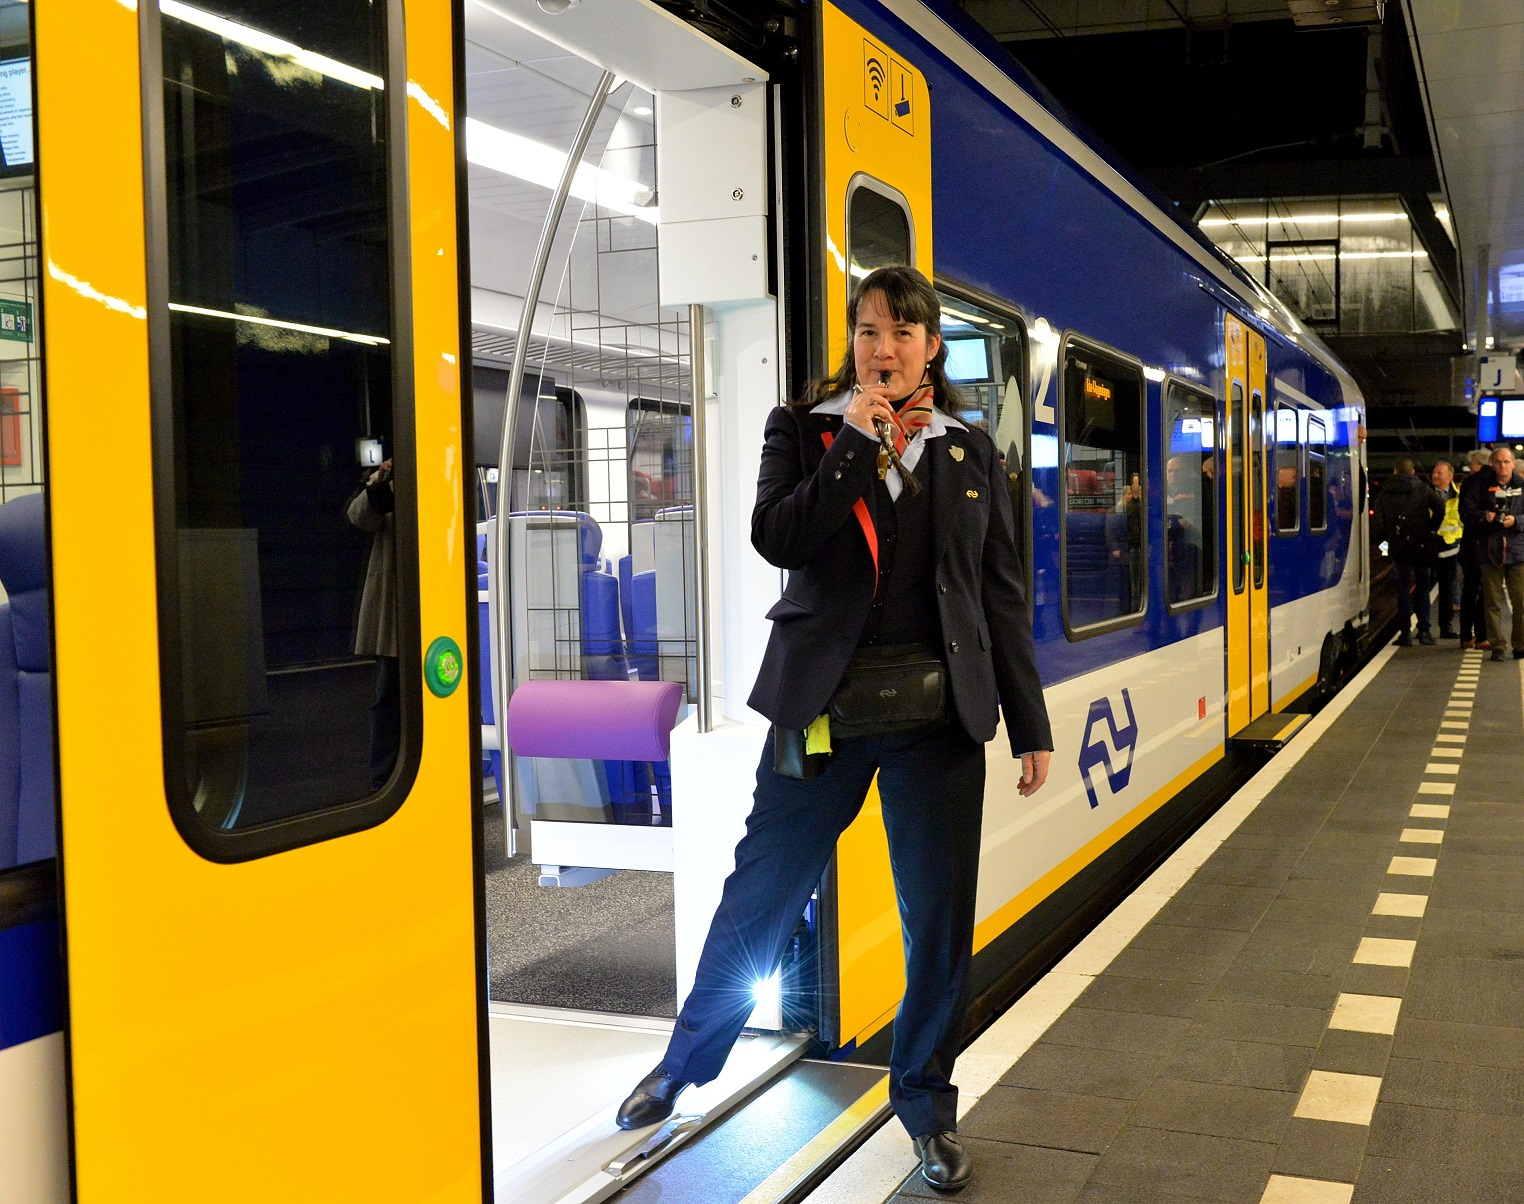
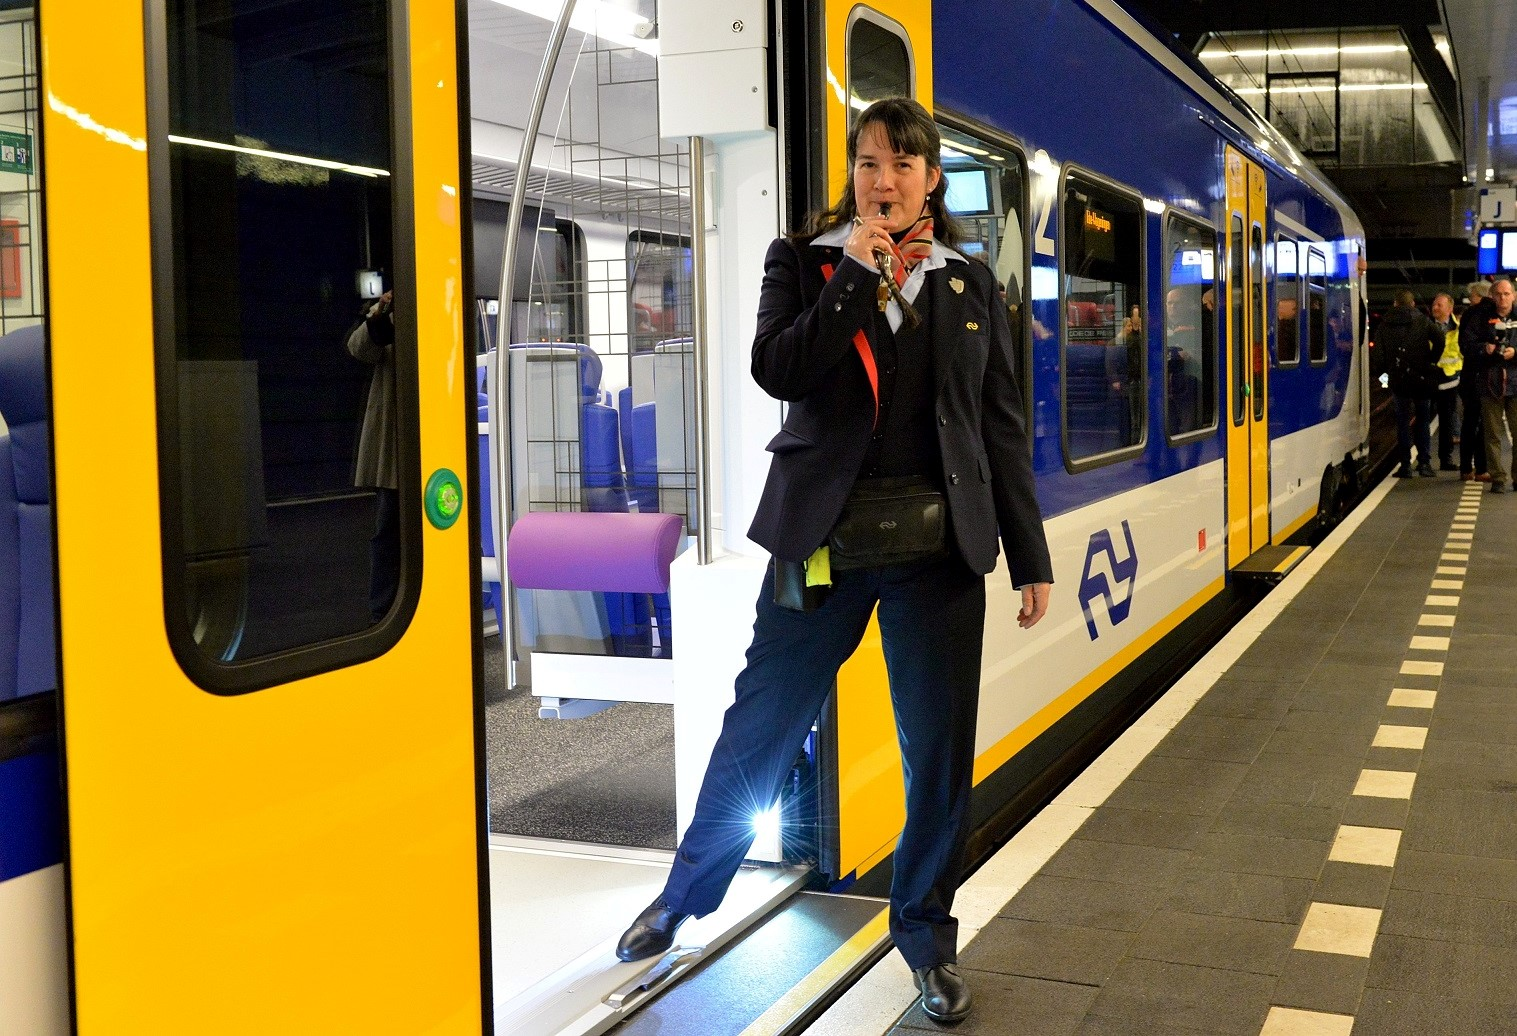
cover foto mooi gemaakt voor mobiel

diff --git a/ns-react/src/js/pages/StartPage.js b/ns-react/src/js/pages/StartPage.js
@@ -27,10 +27,11 @@ export class StartPage extends React.Component {
             <button className = "vlaggenMenu" >
               <Link to = "../Language" className = "vlaggenMenu-link"></Link>
             </button>
-            <img className= "conducteurPic" src="../img/conducteur.jpg" alt="" />
+            <div className="startPage-img">
+              
+            </div>
             <div className="tekstBlok">
-              <p className="introductie">First of all,
-Welcome to the Netherlands!!</p>
+              <p className="introductie">First of all, Welcome to the Netherlands!!</p>
               <Link to="/GpsComponent" className="start_knop">Get started</Link>
             </div>
           </div>

diff --git a/ns-react/src/sass/StartPage.scss b/ns-react/src/sass/StartPage.scss
@@ -12,9 +12,17 @@
   position: relative;
 }
 
-.conducteurPic {
-  width: 120%;
-  border-radius: 0;
+.startPage-img {
+  width: 100vw;
+  position: relative;
+  // background-color: red;
+  height: 40vh;
+  background-image: url("/img/conducteur.jpg");
+  background-position: top;
+  background-size: cover;
+}
+
+.startPage-img--conducteur {
 }
 
 .tekstBlok {
